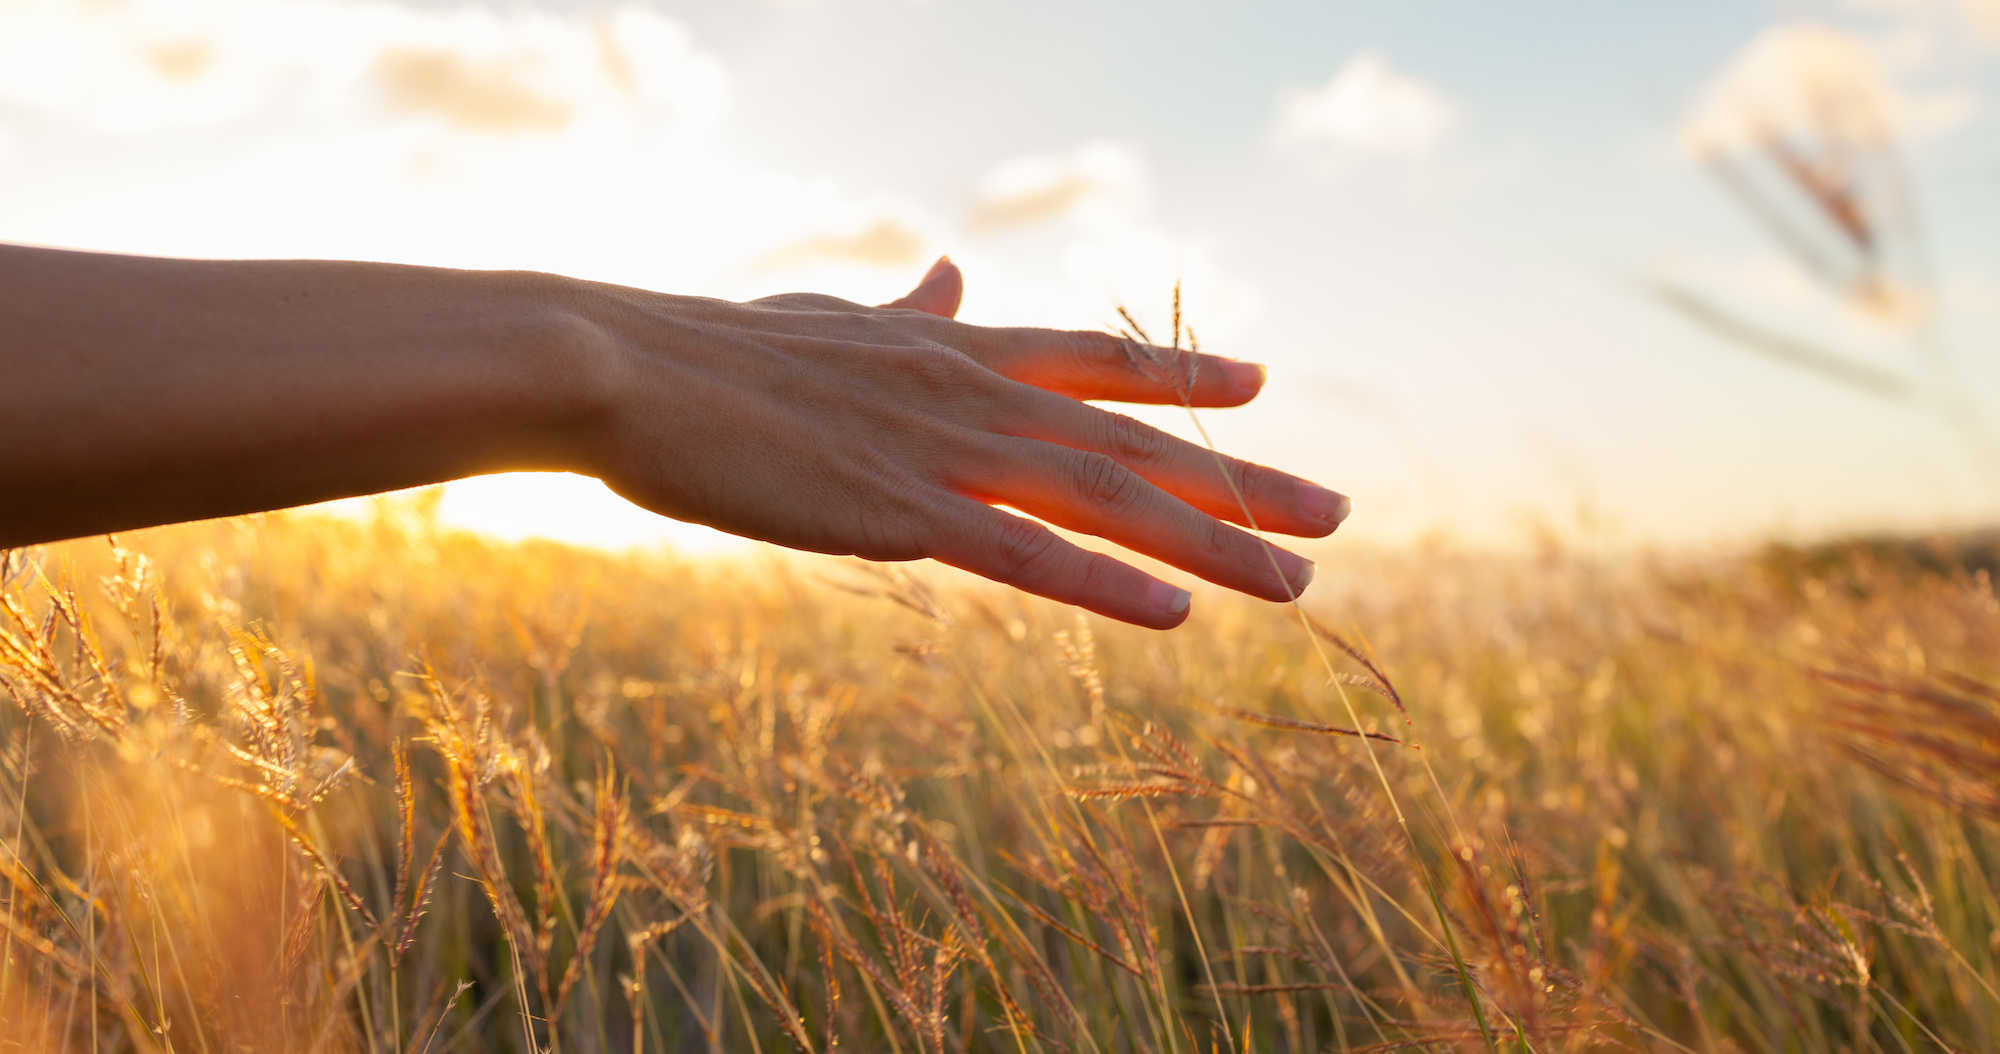
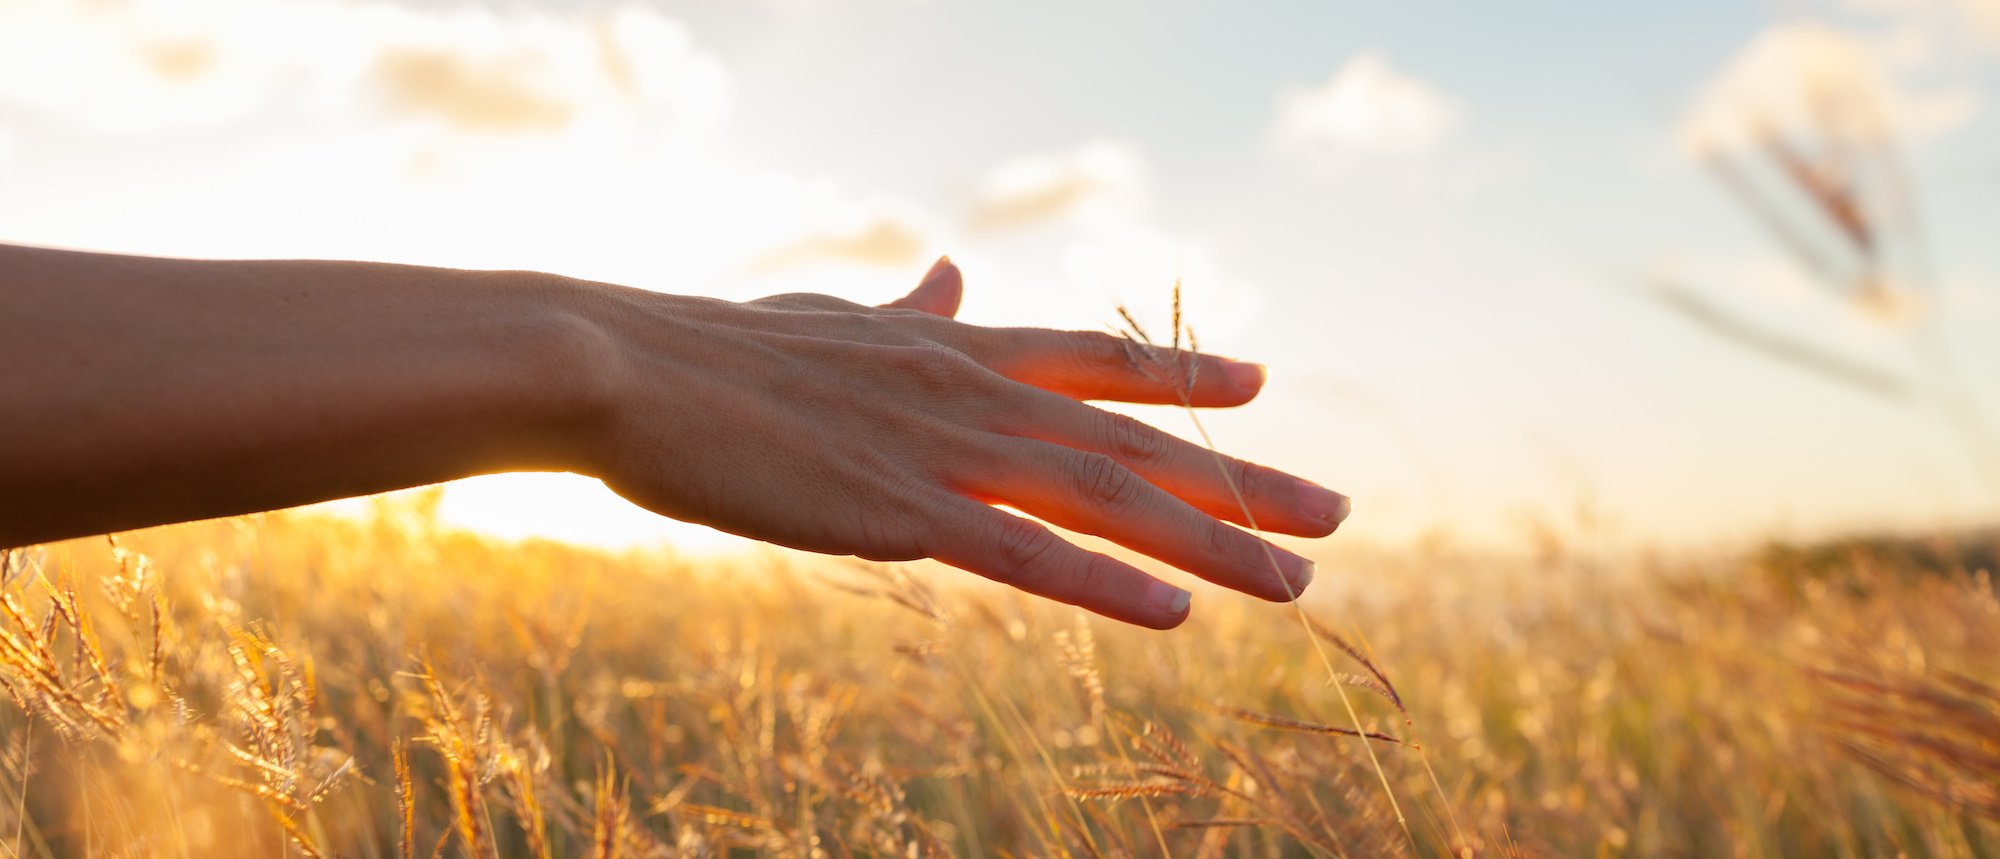
Make text smaller etc, use different font

diff --git a/src/styles/sections/_s-content.sass b/src/styles/sections/_s-content.sass
@@ -20,22 +20,24 @@
 
     h1
         color: $h1-color
-        font-size: 40px
+        font-size: 36px
+        font-family: Handlee
 
     h2
         color: $h2-color
-        font-size: 32px
+        font-size: 29px
 
     h3
         color: $h3-color
-        font-size: 24px
+        font-size: 22px
         font-weight: 400
 
     p,
     li
         color: $main-text-color
-        font-size: 21px
+        font-size: 18px
         line-height: 1.5
+        font-family: Selawik
         // letter-spacing: 0.5px
         letter-spacing: -0.3px
 

diff --git a/src/styles/components/_c-hero.sass b/src/styles/components/_c-hero.sass
@@ -1,10 +1,23 @@
 .c-hero
     // height: 40vw
-    height: 80vh
+    height: 30vw
     // max-height: 560px
     background-size: cover
     background-position: center center
     background-repeat: no-repeat
+    position: relative
 
     &__spacer
         height: 90px
+
+    &__slogan
+        position: absolute
+        bottom: 40px
+        transform: translateX(-50%)
+        left: 50%
+        font-family: Handlee
+        background-color: rgba(#bcd0ad, 0.7)
+        color: $dark-red
+        padding: 20px 40px
+        font-size: 30px
+

diff --git a/_layouts/default.html b/_layouts/default.html
@@ -9,7 +9,11 @@
 
     <main>
         {% if page.hero-image %}
-            <div class="c-hero" style="background-image: url({{ page.hero-image }})"></div>
+            <div class="c-hero" style="background-image: url({{ page.hero-image }})">
+                {% if page.hero-slogan %}
+                    <div class="c-hero__slogan">{{ page.hero-slogan }}</div>
+                {% endif %}
+            </div>
         {% else %}
             <div class="c-hero__spacer"></div>
         {% endif %}

diff --git a/src/styles/abstracts/variables/_variables.sass b/src/styles/abstracts/variables/_variables.sass
@@ -23,6 +23,7 @@ $main-bg-color: #ffffff
 $main-text-color: #666
 
 $red: #83773d
+$dark-red: #5e3a1a
 $turqoise: #50acc4
 $orange: #9cba5f
 $yellow: #e5b929

diff --git a/src/styles/base/_reset.sass b/src/styles/base/_reset.sass
@@ -46,7 +46,7 @@ html,
 body,
 input,
 button
-  font-family: Open Sans, Arial
+  font-family: Selawik, Open Sans, Arial
 
 a
   // outline: none

diff --git a/pages/index.md b/pages/index.md
@@ -4,8 +4,9 @@ title: Kiann Kindercoaching & Opvoedondersteuning
 description: Lorem ipsum dolor sit amet, consectetur adipisicing elit. Aliquam, perspiciatis fugiat corporis accusantium dolor quibusdam mollitia eaque est alias, quod cupiditate laudantium explicabo maiores quia doloremque tempora enim quo nesciunt!
 permalink: /
 hero-image: uploads/hero-home.jpg
+hero-slogan: Neem mijn hand aan op weg naar jouw doel!
 include-in-other-pages-list: false
-include-in-menu: false
+include-in-menu: true
 ---
 # Ik ben Annelies Hofstee
 
